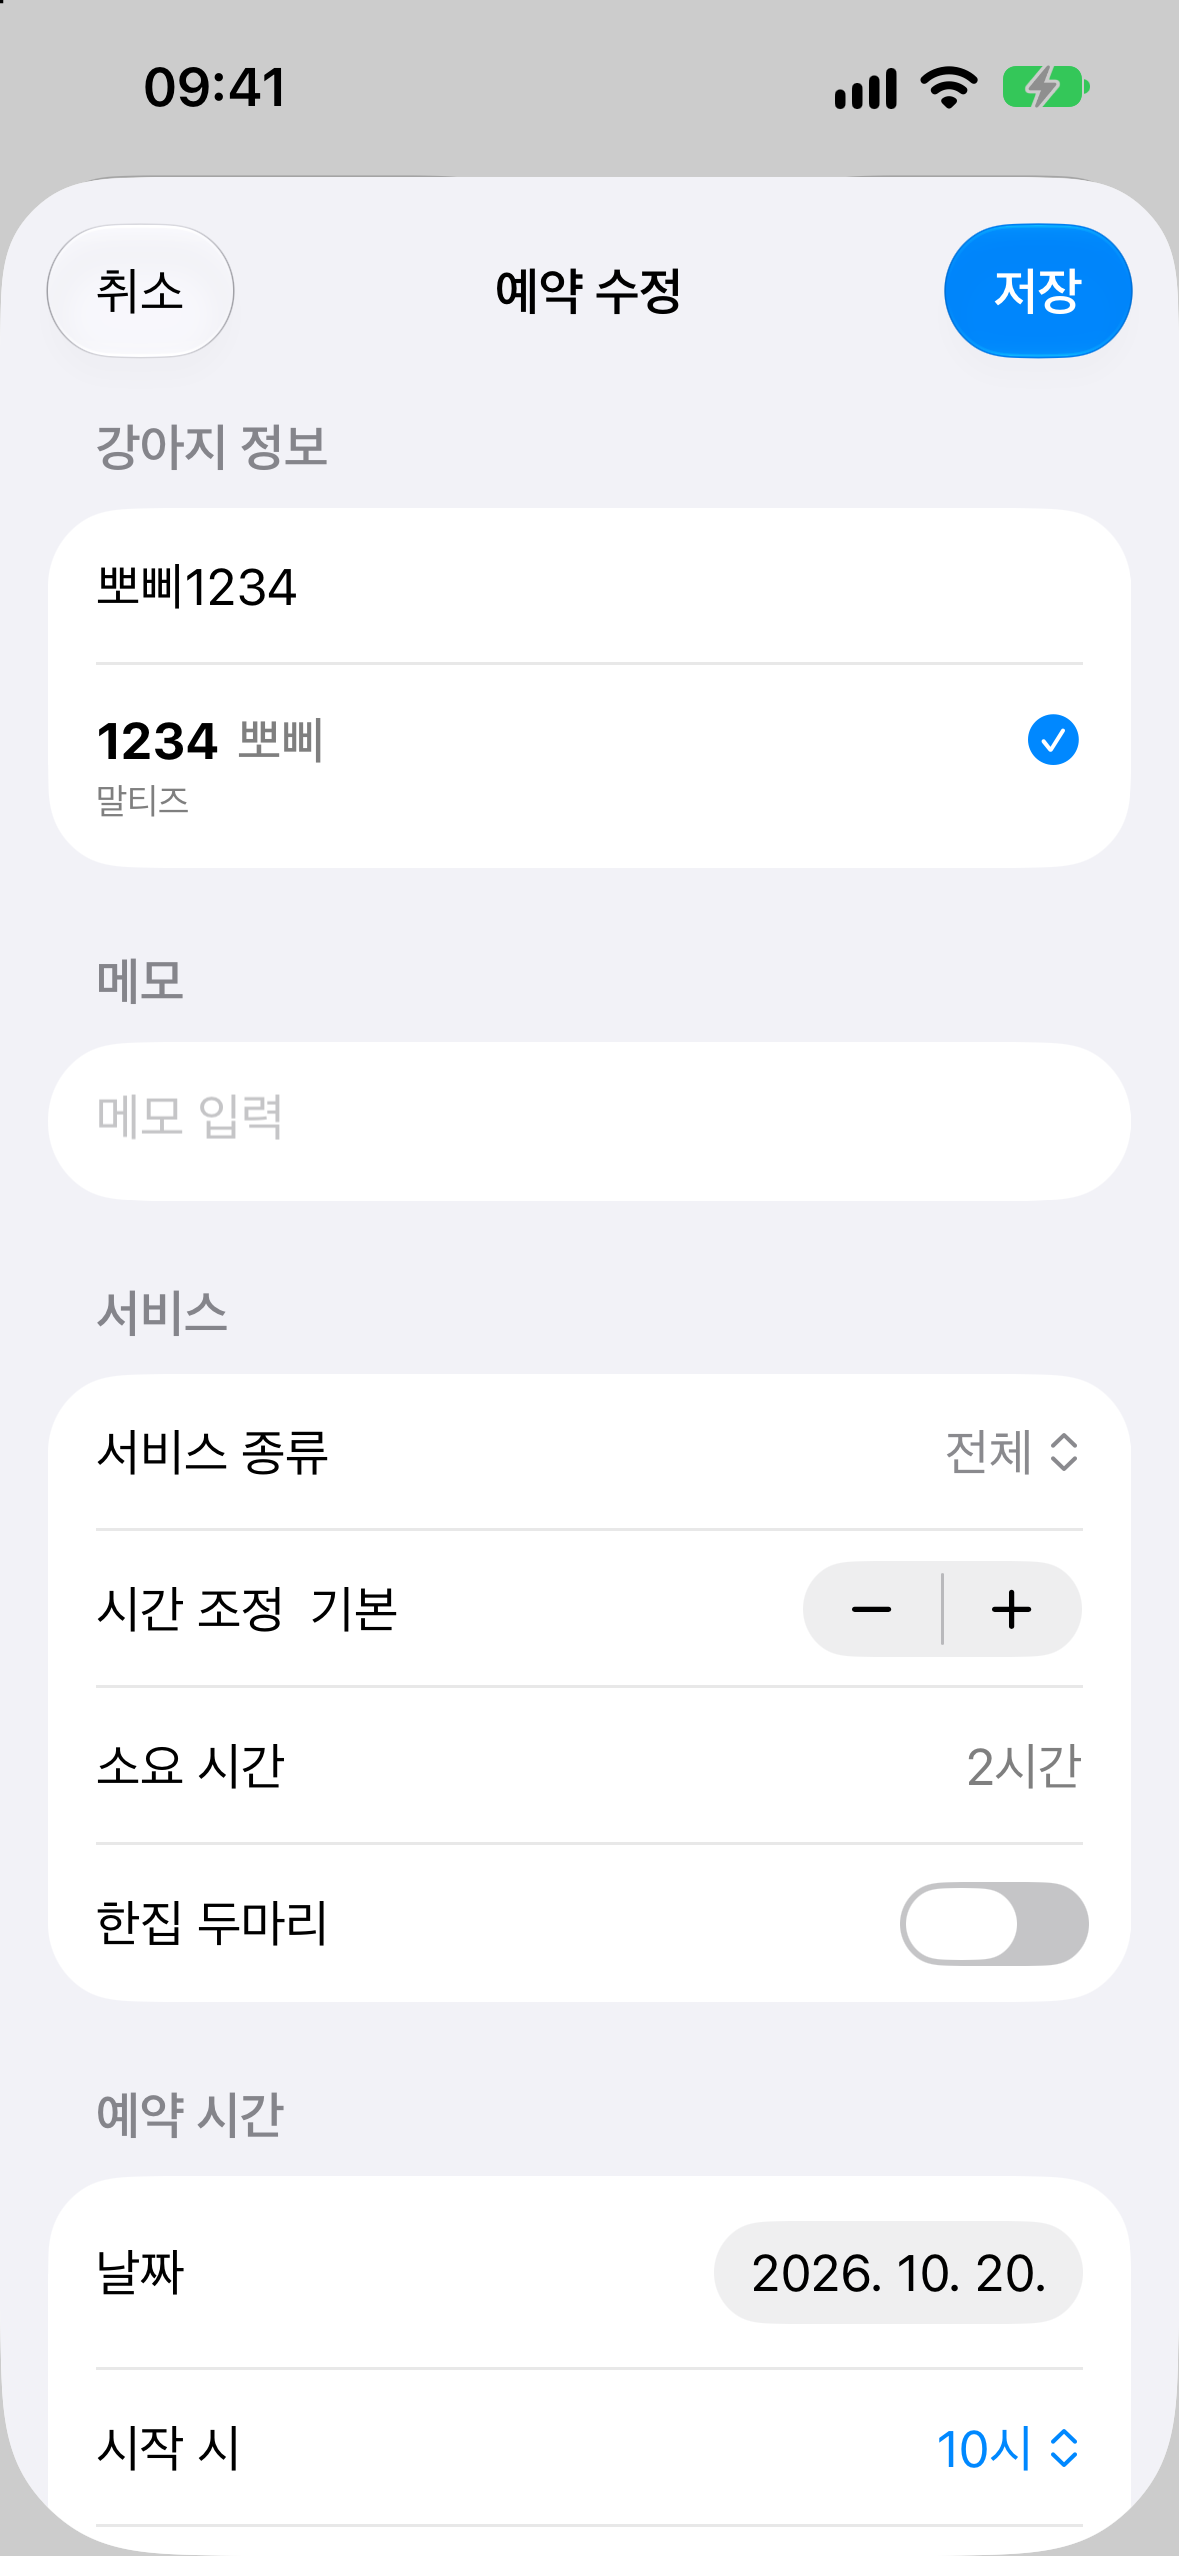
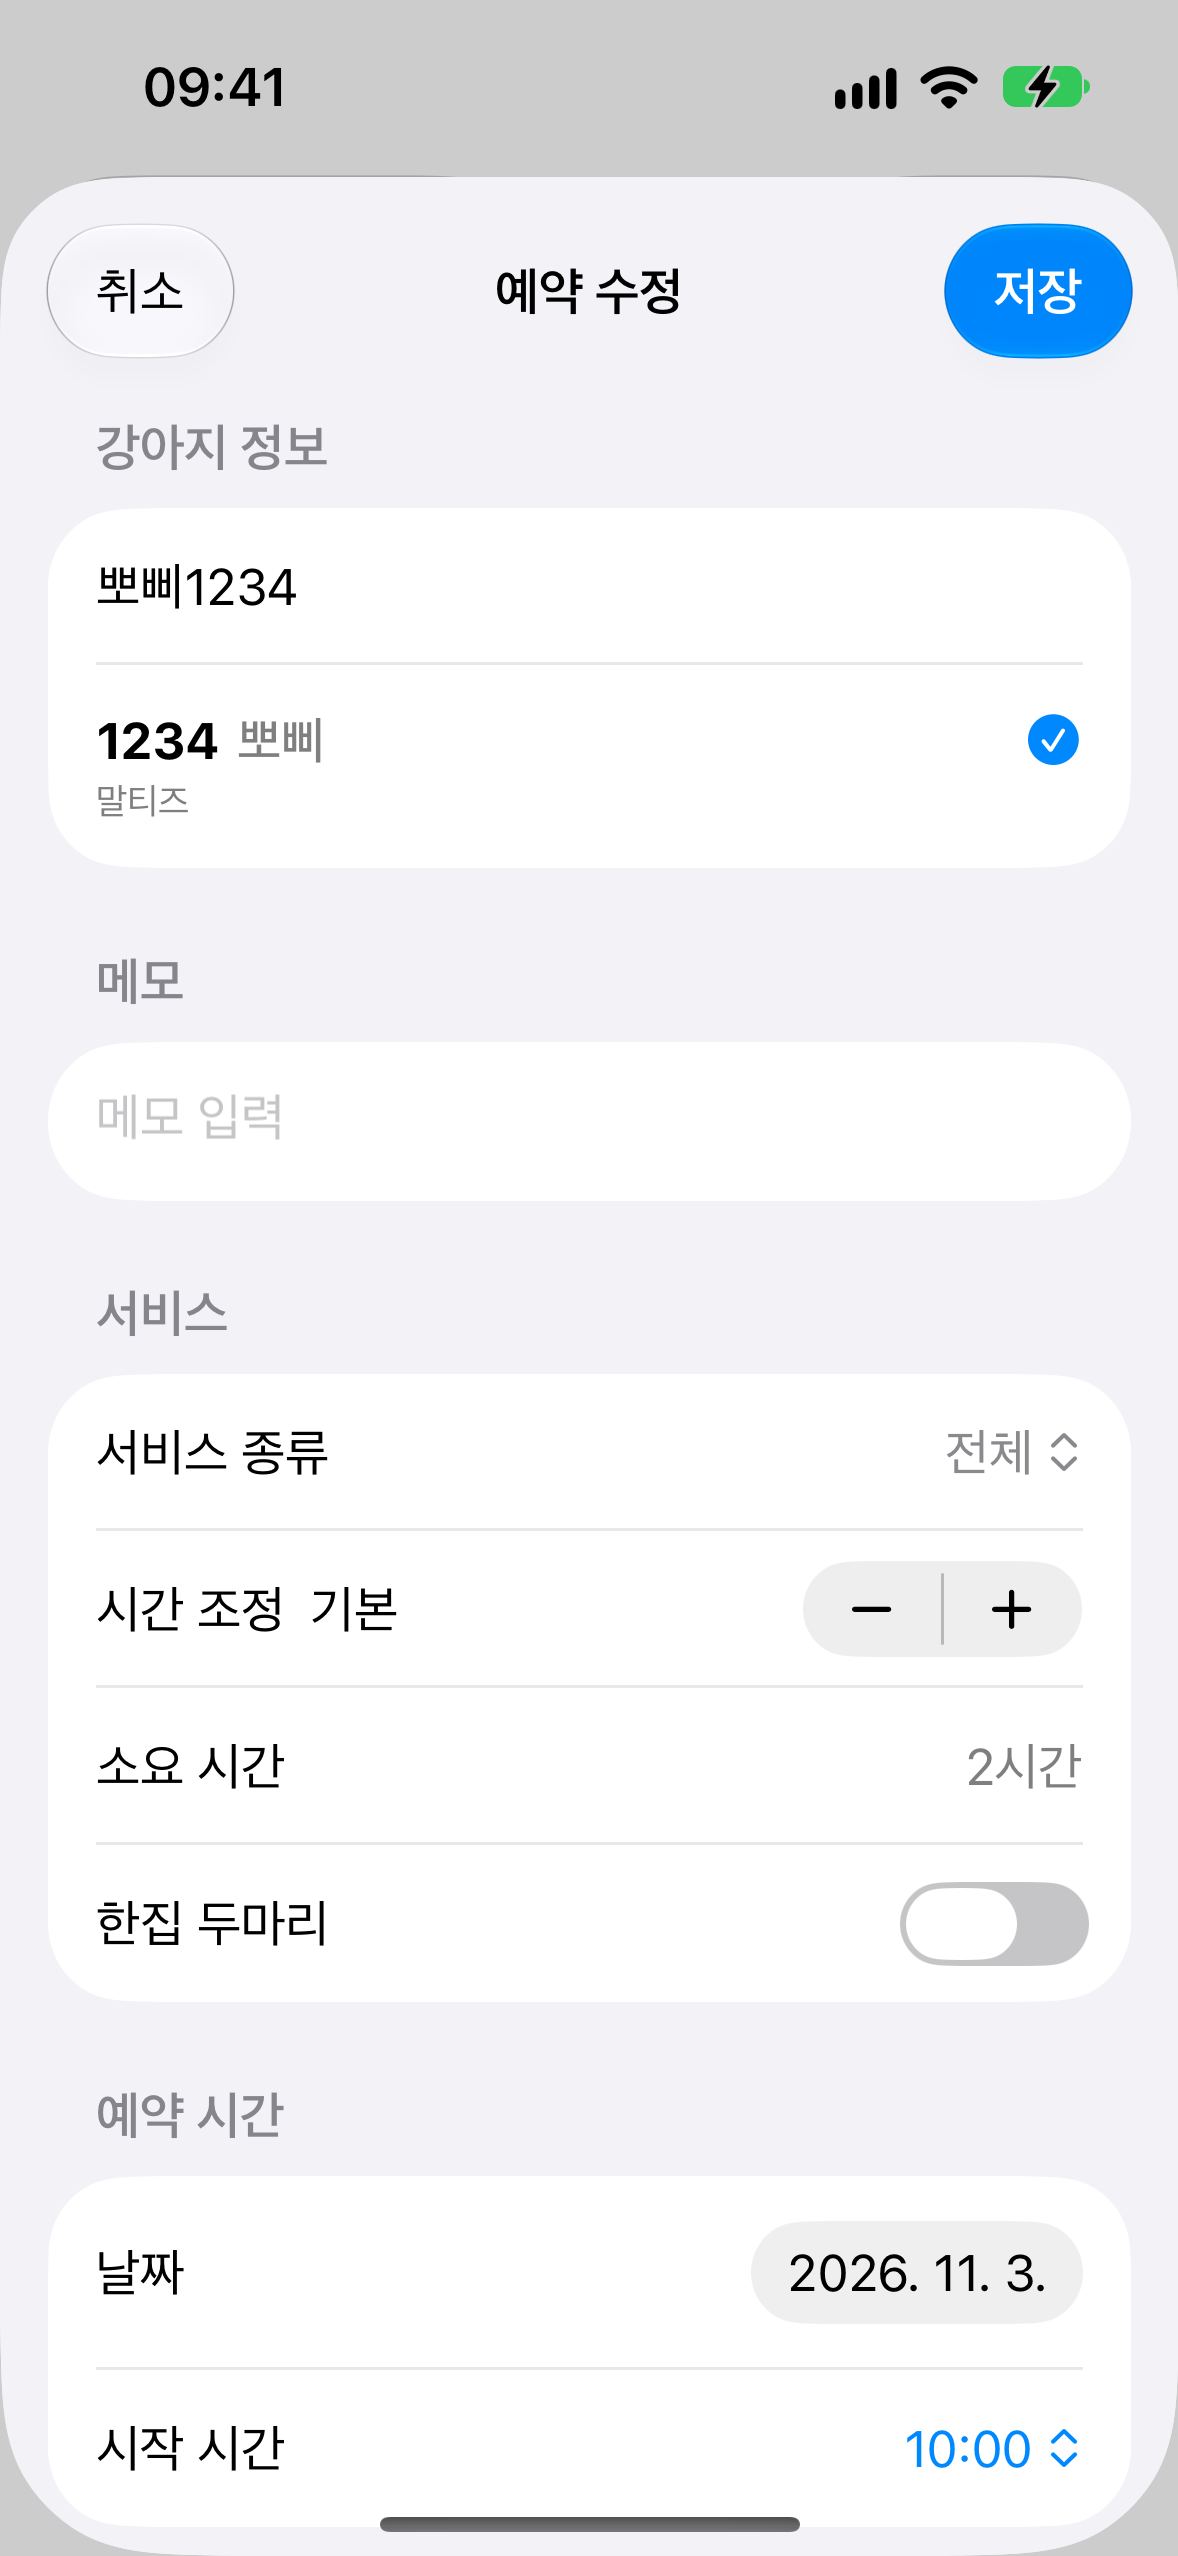
docs: README에 시간 겹침 예약 반영

diff --git a/README.md b/README.md
@@ -8,7 +8,8 @@
 ## 주요 기능
 
 - **주간 시간표**: 화요일부터 토요일까지의 주간 그리드에서 예약 현황을 한눈에 확인하고, 좌우로 스와이프해 주를 이동합니다. 빈 칸을 탭하면 예약을 추가하고, 예약을 탭하면 수정할 수 있습니다.
-- **예약 등록/수정**: 서비스 종류(전체, 가위컷, 가위컷(비숑), 부목얼, 부목얼(비숑), 목욕, 위생)에 따라 기본 소요 시간이 자동으로 계산되며, 필요 시 시간을 조정할 수 있습니다. 영업시간(10:00부터 20:00까지), 영업일(화요일부터 토요일까지), 기존 예약과의 중복, 휴무일 여부를 검사해 예약 가능 여부를 판단합니다.
+- **예약 등록/수정**: 서비스 종류(전체, 가위컷, 가위컷(비숑), 부목얼, 부목얼(비숑), 목욕, 위생)에 따라 기본 소요 시간이 자동으로 계산되며, 필요 시 시간을 조정할 수 있습니다. 영업시간(10:00부터 20:00까지), 영업일(화요일부터 토요일까지), 휴무일 여부를 검사해 예약 가능 여부를 판단합니다.
+- **시간 겹침 예약**: 발톱관리 같은 짧은 위생 작업을 다른 예약 앞뒤에 끼워 넣을 수 있도록 시간이 겹치는 예약도 저장할 수 있습니다. 겹친 예약은 가장 긴 예약의 카드 안에 고객별 색을 입힌 트리 형태로 표시되고, 그 카드를 탭해 수정할 예약을 고릅니다. 예약 폼에서는 겹치는 예약을 미리 알려줍니다. 예약 카드를 길게 누르면 같은 시간에 예약을 추가할 수 있습니다.
 - **회원(반려견) 관리**: 예약을 등록하면 반려견이 회원으로 자동 등록됩니다.
   - 회원 탭 상단의 검색창은 항상 표시되며, 강아지 이름·견종·메모·전화번호 뒷자리로 검색할 수 있습니다.
   - 회원 상세 화면에서는 별도의 수정 버튼 없이 전화번호 뒷자리, 강아지 이름, 견종, 메모를 바로 편집하고 변경 사항이 즉시 저장됩니다.
